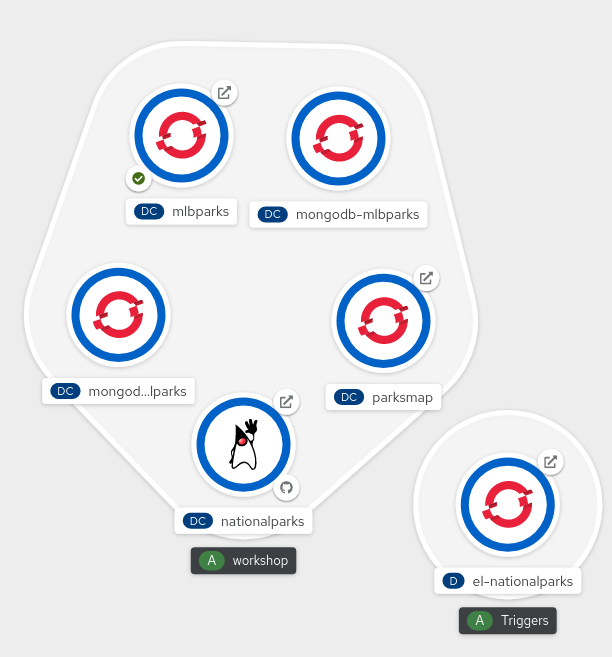
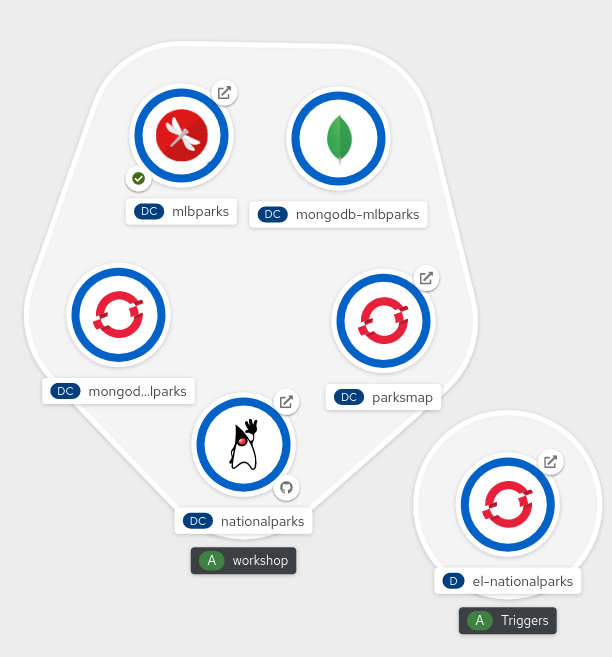
[CI] Publish Documentation for 4a45596f77582e133da4e6b571dfe9886c48920f - 4a45596f77582e133da4e6b571dfe9886c48920f 🚀

Changed region(s): [[0.2484, 0.1522, 0.3415, 0.2435], [0.4967, 0.1522, 0.5899, 0.2435]]

diff --git a/rhs-openshift-starter-guides/mlbparks-templates.html b/rhs-openshift-starter-guides/mlbparks-templates.html
@@ -648,8 +648,17 @@ several app servers, databases, and more.  You could deploy the entire set of
 resources with one command, and then hack on them to develop new features,
 microservices, fix bugs, and more.</p>
 </div>
-<div class="paragraph">
-<p>In Topology view, you can drag <code>mlbparks</code> and <code>mongodb-mlbparks</code> into the <code>workshop</code> application grouping.</p>
+<div class="admonitionblock tip">
+<table>
+<tr>
+<td class="icon">
+<i class="fa icon-tip" title="Tip"></i>
+</td>
+<td class="content">
+You&#8217;ll notice apps are already inside <code>workshop</code> application group and they have a nice EAP and MongoDB icon. This is thanks to the label <code>app.kubernetes.io/part-of</code> and <code>app.kubernetes.io/name</code> that the template already setup for both DeploymentConfigs
+</td>
+</tr>
+</table>
 </div>
 <div class="imageblock">
 <div class="content">

diff --git a/rhs-openshift-starter-guides/parksmap-container-image.html b/rhs-openshift-starter-guides/parksmap-container-image.html
@@ -572,6 +572,23 @@ We will discuss in details about <strong>DeploymentConfig</strong> and <strong>D
 <pre class="highlightjs highlight"><code>role=frontend</code></pre>
 </div>
 </div>
+<div class="admonitionblock tip">
+<table>
+<tr>
+<td class="icon">
+<i class="fa icon-tip" title="Tip"></i>
+</td>
+<td class="content">
+<strong>(Optional)</strong> Since this is a Spring app, you can mark this app as Spring application into Topology view with this additional label, it will be represented with a Spring icon:
+</td>
+</tr>
+</table>
+</div>
+<div class="listingblock copypaste">
+<div class="content">
+<pre class="highlightjs highlight"><code>app.kubernetes.io/name=spring</code></pre>
+</div>
+</div>
 <div class="imageblock">
 <div class="content">
 <img src="_images/parksmap-image-options.png" alt="Deploy image">
